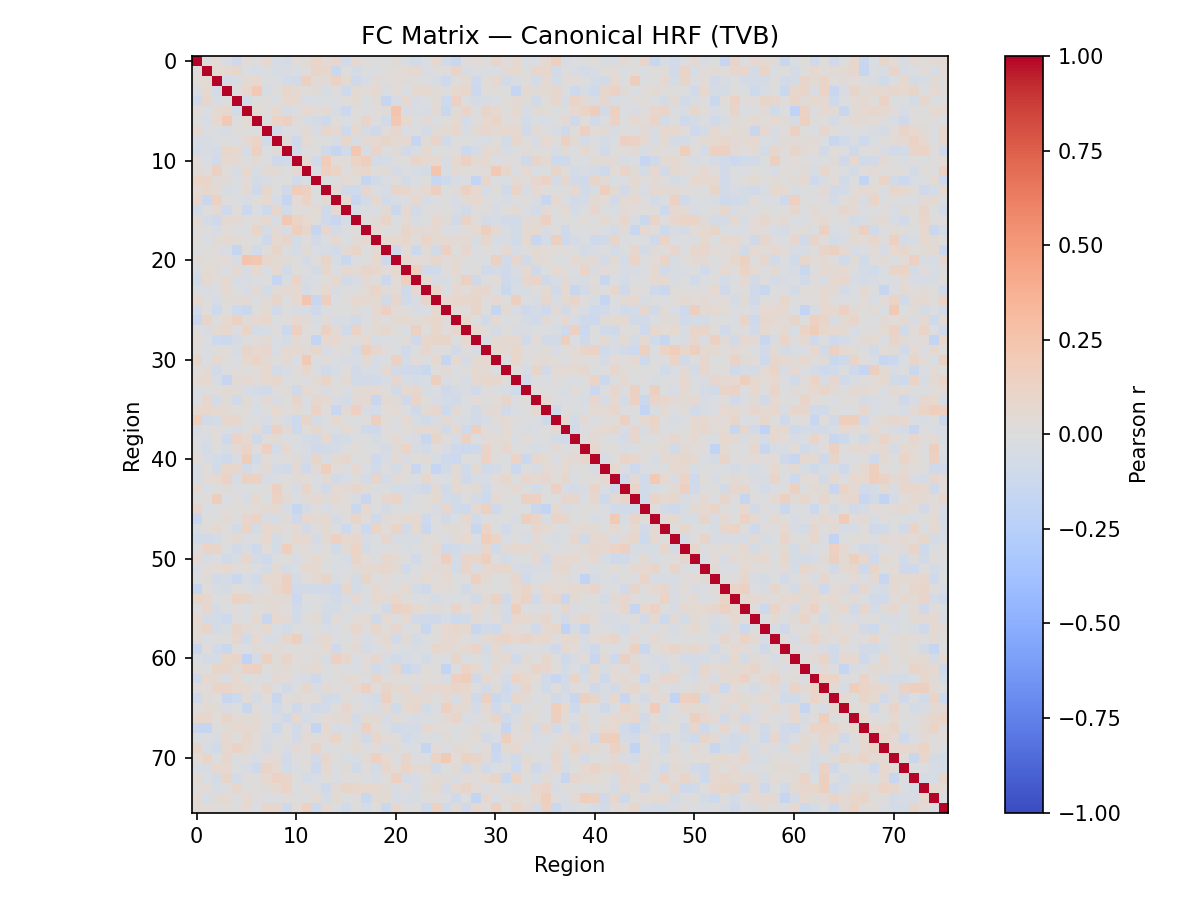
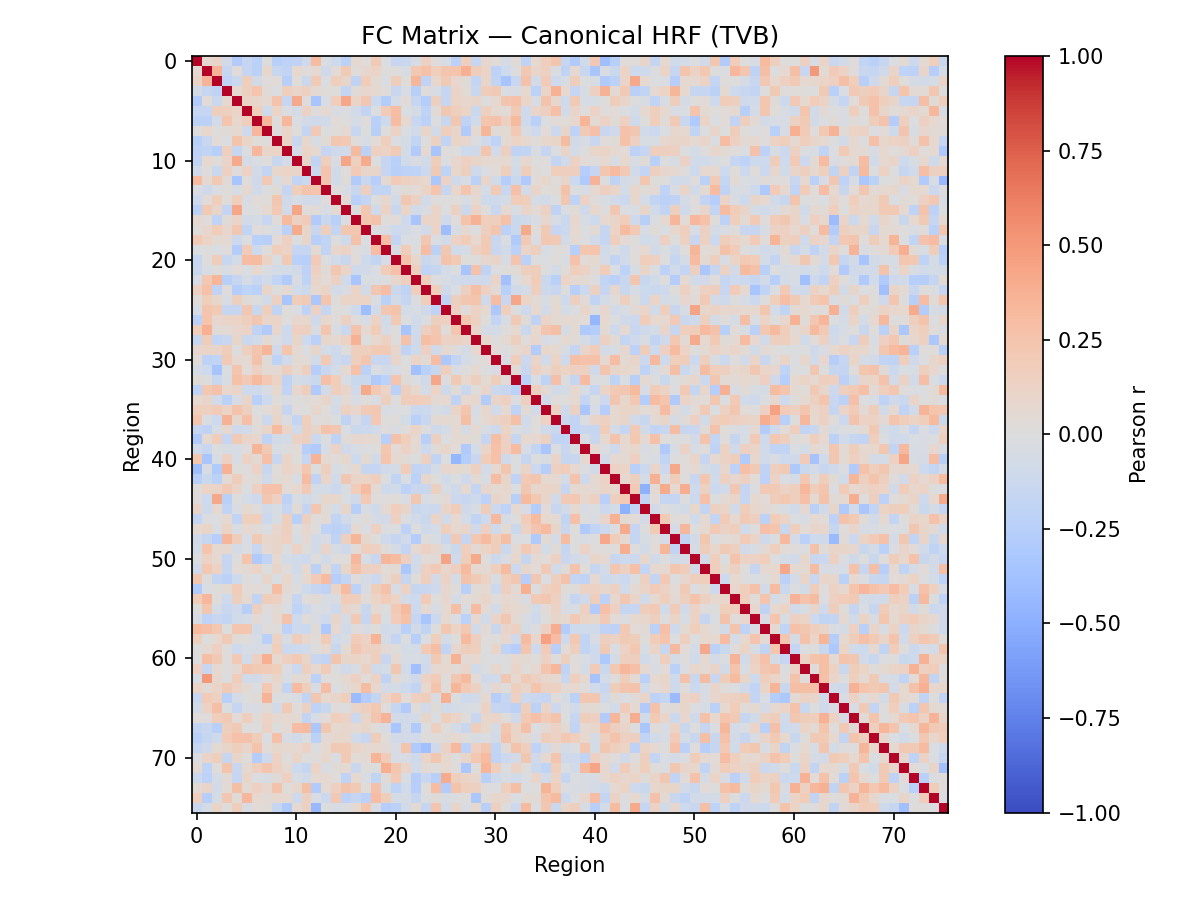
canonical and empirical HRF pictures addition

Changed region(s): [[0.1542, 0.0622, 0.8017, 0.9022]]

diff --git a/full_pipeline.py b/full_pipeline.py
@@ -1,0 +1,164 @@
+from tvb.simulator.lab import *
+import numpy as np
+import matplotlib.pyplot as plt
+from scipy.signal import fftconvolve
+import os
+
+out_data = r"E:\outputTVB"
+out_figs = r"E:\GSOC\figures"
+os.makedirs(out_data, exist_ok=True)
+os.makedirs(out_figs, exist_ok=True)
+
+# ── STEP 1: Run TVB simulation (Raw + BOLD) ──────────────────────────────────
+print("Step 1: Running TVB simulation...")
+
+model = models.Generic2dOscillator()
+model.a = np.array([0.5])
+model.b = np.array([-10.0])
+model.c = np.array([0.0])
+model.d = np.array([0.02])
+model.I = np.array([0.0])
+model.tau = np.array([1.0])
+
+conn = connectivity.Connectivity.from_file()
+conn.speed = np.array([4.0])
+
+coupl = coupling.Linear(a=np.array([0.0042]))
+
+integrator = integrators.HeunStochastic(dt=0.1)
+integrator.noise.nsig = np.array([0.01])
+
+mon_raw = monitors.Raw()
+mon_raw.period = 2000.0
+
+mon_bold = monitors.Bold()
+mon_bold.period = 2000.0
+
+sim = simulator.Simulator(
+    model=model,
+    connectivity=conn,
+    coupling=coupl,
+    integrator=integrator,
+    monitors=[mon_raw, mon_bold],
+    simulation_length=100000.0   # 100s — enough timepoints, small footprint
+)
+sim.configure()
+
+print("  Simulating...")
+results = sim.run()
+(time_raw, data_raw) = results[0]
+(time_bold, data_bold) = results[1]
+
+neural = data_raw[:, 0, :, 0].T    # (n_regions, T)
+bold_canonical = data_bold[:, 0, :, 0].T  # (n_regions, T)
+n_regions = neural.shape[0]
+
+print(f"  Neural shape: {neural.shape}, std: {neural.std():.4f}")
+print(f"  BOLD shape: {bold_canonical.shape}, std: {bold_canonical.std():.4f}")
+
+np.save(os.path.join(out_data, "neural_activity.npy"), neural)
+np.save(os.path.join(out_data, "bold_canonical.npy"), bold_canonical)
+print("  Saved neural and canonical BOLD.")
+
+# ── STEP 2: Load and prepare HRFs ────────────────────────────────────────────
+print("\nStep 2: Preparing HRFs...")
+
+hrfs = np.load(os.path.join(out_data, "hrfs_76.npy"))  # (76, 15)
+hrfs = hrfs[:n_regions, :]
+print(f"  HRF shape: {hrfs.shape}, peak at index {np.argmax(hrfs[0])} = {np.argmax(hrfs[0])*2}s")
+
+# ── STEP 3: Empirical HRF convolution ────────────────────────────────────────
+print("\nStep 3: Convolving neural activity with empirical HRFs...")
+
+T = neural.shape[1]
+bold_empirical = np.zeros((n_regions, T))
+
+for i in range(n_regions):
+    conv = fftconvolve(neural[i], hrfs[i], mode='full')
+    bold_empirical[i] = conv[:T]
+
+# Normalize
+def normalize(x):
+    return (x - x.mean(axis=1, keepdims=True)) / (x.std(axis=1, keepdims=True) + 1e-8)
+
+bold_empirical = normalize(bold_empirical)
+bold_canonical_n = normalize(bold_canonical)
+
+np.save(os.path.join(out_data, "bold_empirical.npy"), bold_empirical)
+print(f"  Empirical BOLD shape: {bold_empirical.shape}")
+
+# ── STEP 4: FC matrices ───────────────────────────────────────────────────────
+print("\nStep 4: Computing FC matrices...")
+
+FC_canonical = np.corrcoef(bold_canonical_n)
+FC_empirical = np.corrcoef(bold_empirical)
+FC_diff = FC_empirical - FC_canonical
+
+np.save(os.path.join(out_data, "FC_canonical.npy"), FC_canonical)
+np.save(os.path.join(out_data, "FC_empirical.npy"), FC_empirical)
+
+rmse = np.sqrt(np.mean(FC_diff**2))
+corr = np.corrcoef(FC_canonical.flatten(), FC_empirical.flatten())[0, 1]
+print(f"  RMSE: {rmse:.4f}")
+print(f"  FC correlation: {corr:.4f}")
+
+# ── STEP 5: Generate all figures ──────────────────────────────────────────────
+print("\nStep 5: Generating figures...")
+
+# fig7 — BOLD timeseries
+fig, ax = plt.subplots(figsize=(12, 5))
+for i in range(5):
+    ax.plot(bold_canonical[i], label=f'Region {i+1}', alpha=0.8)
+ax.set_title('TVB Canonical BOLD Timeseries (First 5 Regions)')
+ax.set_xlabel('Timepoint')
+ax.set_ylabel('BOLD Signal')
+ax.legend()
+plt.tight_layout()
+plt.savefig(os.path.join(out_figs, "fig7_tvb_bold_timeseries.png"), dpi=150)
+plt.close()
+print("  fig7 saved")
+
+# fig8 — FC Canonical
+fig, ax = plt.subplots(figsize=(8, 6))
+im = ax.imshow(FC_canonical, cmap='coolwarm', vmin=-1, vmax=1)
+plt.colorbar(im, ax=ax, label='Pearson r')
+ax.set_title('FC Matrix — Canonical HRF (TVB)')
+ax.set_xlabel('Region')
+ax.set_ylabel('Region')
+plt.tight_layout()
+plt.savefig(os.path.join(out_figs, "fig8_fc_canonical.png"), dpi=150)
+plt.close()
+print("  fig8 saved")
+
+# fig9 — FC Empirical
+fig, ax = plt.subplots(figsize=(8, 6))
+im = ax.imshow(FC_empirical, cmap='coolwarm', vmin=-1, vmax=1)
+plt.colorbar(im, ax=ax, label='Pearson r')
+ax.set_title('FC Matrix — Empirical rsHRF (TVB)')
+ax.set_xlabel('Region')
+ax.set_ylabel('Region')
+plt.tight_layout()
+plt.savefig(os.path.join(out_figs, "fig9_fc_empirical.png"), dpi=150)
+plt.close()
+print("  fig9 saved")
+
+# fig10 — FC comparison
+fig, axes = plt.subplots(1, 3, figsize=(18, 5))
+for ax, mat, title in zip(axes,
+    [FC_canonical, FC_empirical, FC_diff],
+    ['Canonical HRF', 'Empirical rsHRF', 'Difference (Empirical - Canonical)']):
+    im = ax.imshow(mat, cmap='coolwarm', vmin=-1, vmax=1)
+    plt.colorbar(im, ax=ax, label='Pearson r')
+    ax.set_title(title)
+    ax.set_xlabel('Region')
+    ax.set_ylabel('Region')
+plt.tight_layout()
+plt.savefig(os.path.join(out_figs, "fig10_fc_comparison.png"), dpi=150)
+plt.close()
+print("  fig10 saved")
+
+print(f"\n All done!")
+print(f"   RMSE: {rmse:.4f}")
+print(f"   FC correlation: {corr:.4f}")
+print(f"   Figures saved to: {out_figs}")
+print(f"   Data saved to: {out_data}")
